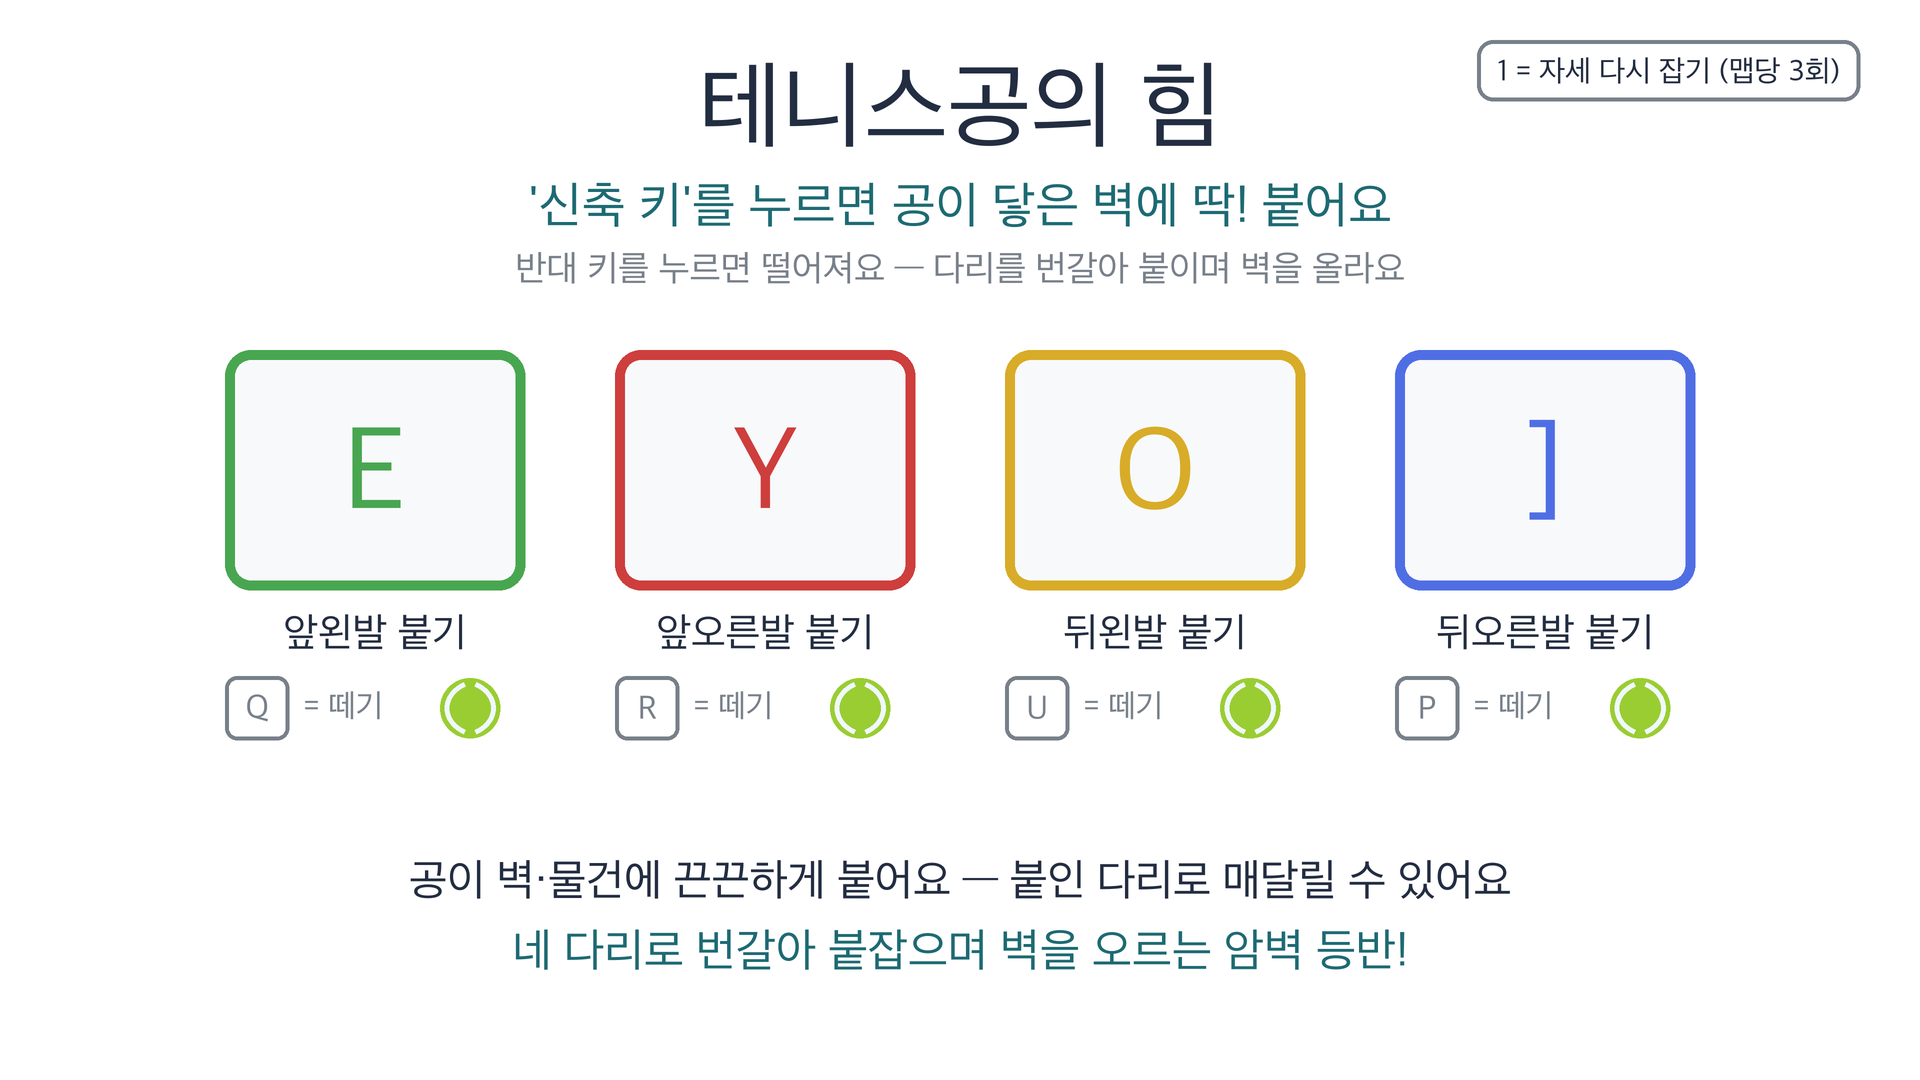
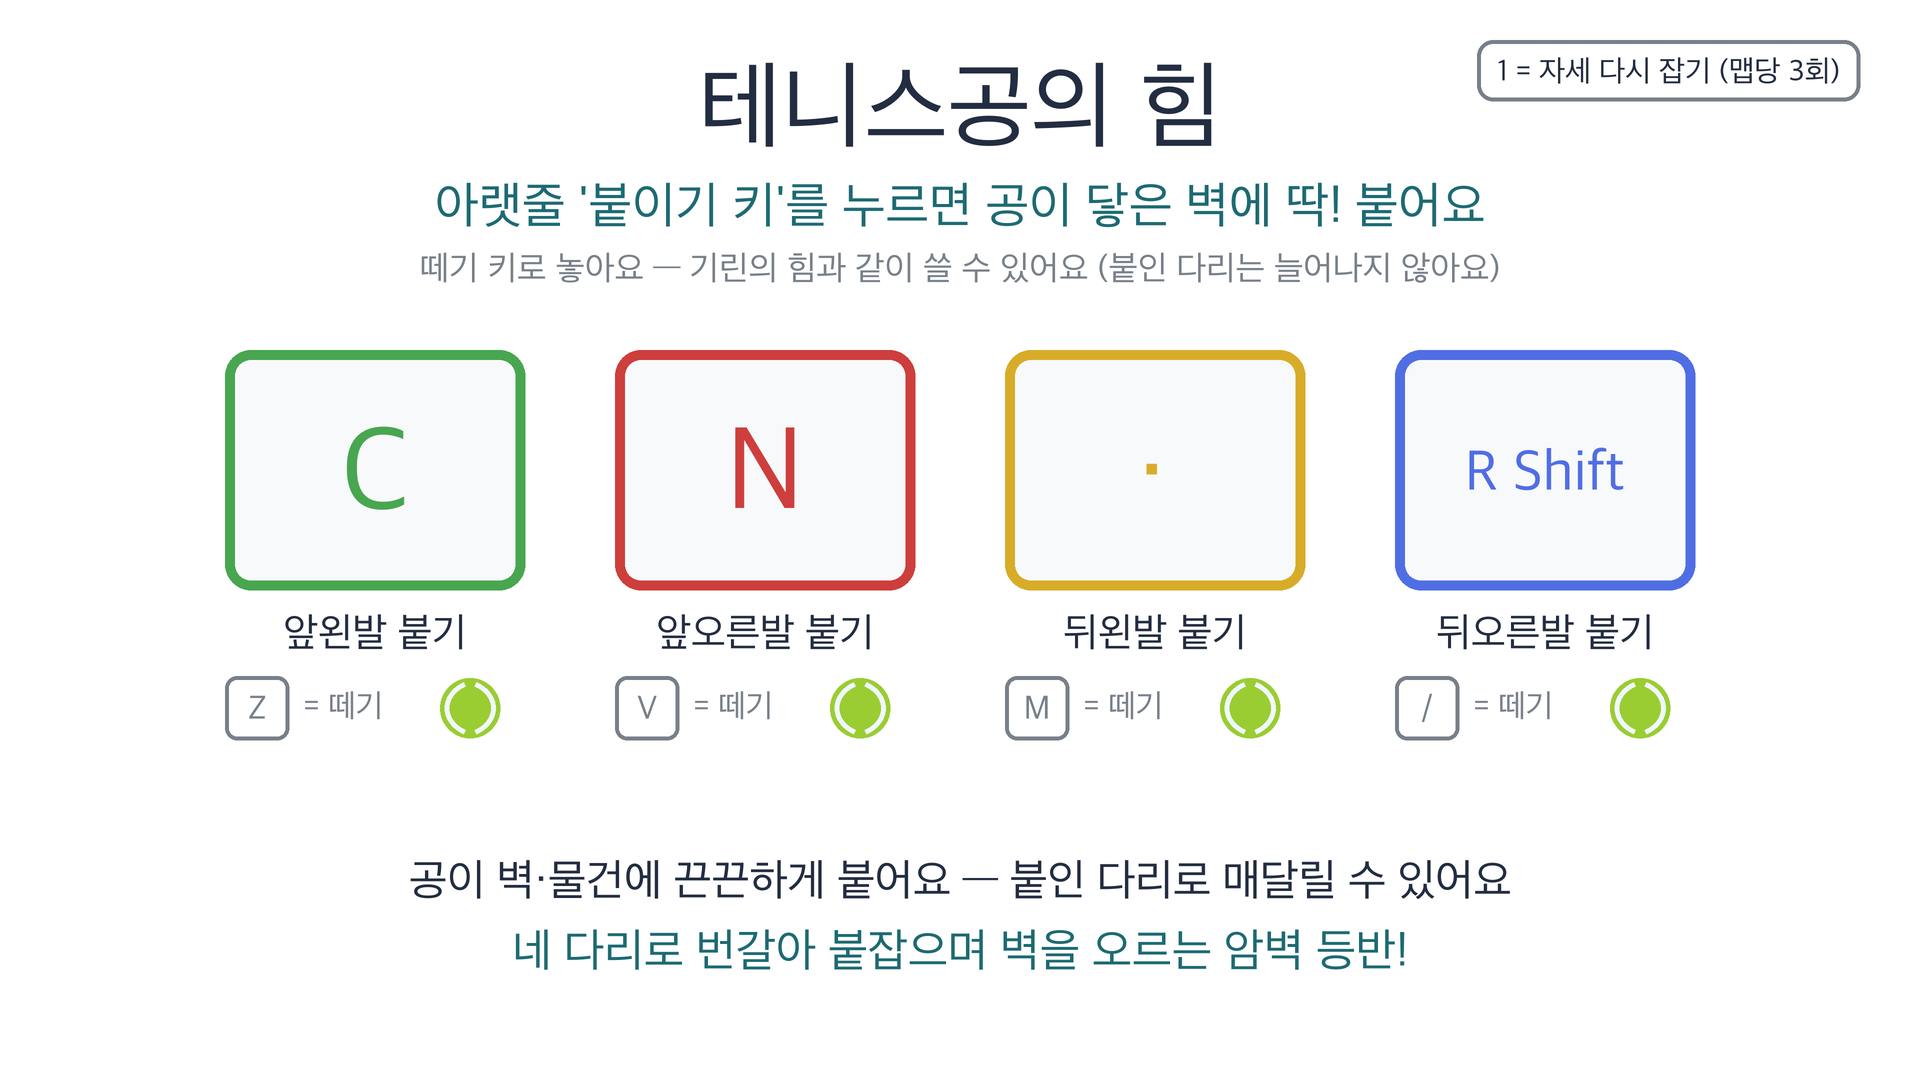
테니스 붙이기/떼기 키를 아랫줄 전용 키로 분리 — 기린 신축 키와 충돌 해소
- 붙이기: 앞왼=C / 앞오=N / 뒤왼=. / 뒤오=오른쪽Shift
- 떼기:   앞왼=Z / 앞오=V / 뒤왼=M / 뒤오=/
- 신축 키 공유가 사라져 기린 모드 중 '새로 붙기 금지' 게이트 제거
  (붙은 다리 신축 차단은 유지 — 바닥 뚫림 방지)
- 조작 설명 이미지(ControlsTennis) 새 키로 재생성

diff --git a/Assets/Scripts/TennisMode.cs b/Assets/Scripts/TennisMode.cs
@@ -2,13 +2,13 @@ using UnityEngine;
 
 /// <summary>
 /// ★ 테니스공 모드(2026-07-08) — 켜지면 네 다리 끝에 테니스공이 생긴다.
-/// 다리 신축 키(longer: FL=E/FR=Y/BL=O/BR=])를 누르면 공이 닿아 있는 벽/오브젝트에 '끈끈이'처럼 딱 붙고,
-/// 반대 키(shorter: FL=Q/FR=R/BL=U/BR=P)를 누르면 놓는다. 다리별 독립 — 번갈아 붙이며 벽을 오르는 조작.
+/// 붙이기 키(FL=C/FR=N/BL=./BR=오른쪽Shift)를 누르면 공이 닿아 있는 벽/오브젝트에 '끈끈이'처럼 딱 붙고,
+/// 떼기 키(FL=Z/FR=V/BL=M/BR=/)를 누르면 놓는다. (★2026-08-17 기린 신축 키와 분리 — 아랫줄 전용 키) 다리별 독립 — 번갈아 붙이며 벽을 오르는 조작.
 /// 붙기 구현: FixedJoint.connectedArticulationBody(2020.2+).
 ///  - 정적 벽: 발끝 위치에 키네마틱 Rigidbody 앵커 GO를 만들어 벽 transform에 붙이고(움직이는 발판도 추종) 조인트.
 ///  - 동적 오브젝트: 그 Rigidbody에 조인트를 직접 부착(물건을 다리로 붙잡아 끌 수 있음).
 /// 공은 시각 전용(콜라이더 없음 — 보행 물리 불변). 붙은 다리 공은 주황으로 바뀜.
-/// 테이블 기능 패턴: Table.prefab 루트, 평소 active=false. ⚠기린 모드와 키가 겹치므로 씬이 GiraffeMode.locked 처리(TennisStage).
+/// 테이블 기능 패턴: Table.prefab 루트, 평소 active=false. 전용 키라 기린 모드와 동시 사용 가능(붙은 다리는 GiraffeMode가 신축 차단).
 /// </summary>
 public class TennisMode : MonoBehaviour, ICheatUnlockable
 {
@@ -26,8 +26,15 @@ public class TennisMode : MonoBehaviour, ICheatUnlockable
     [Tooltip("붙은 상태 재질(주황).")]
     public Material grabMat;
 
+    // ★2026-08-17 전용 키(사용자 요청): 기린 신축 키와 안 겹치게 키보드 아랫줄 사용.
+    //   붙이기: WASD(앞왼)=C, TFGH(앞오)=N, IJKL(뒤왼)=., Arrows(뒤오)=오른쪽Shift
+    //   떼기:   WASD=Z, TFGH=V, IJKL=M, Arrows=/  — 각 키셋의 왼→오 배치와 일치
+    static readonly UnityEngine.InputSystem.Key[] GrabKeys =
+    { UnityEngine.InputSystem.Key.C, UnityEngine.InputSystem.Key.N, UnityEngine.InputSystem.Key.Period, UnityEngine.InputSystem.Key.RightShift };
+    static readonly UnityEngine.InputSystem.Key[] ReleaseKeys =
+    { UnityEngine.InputSystem.Key.Z, UnityEngine.InputSystem.Key.V, UnityEngine.InputSystem.Key.M, UnityEngine.InputSystem.Key.Slash };
+
     TableInput ti;
-    GiraffeMode gir;   // ★2026-08-17 기린 공존: 기린 모드 중엔 새로 붙기 금지(신축 키 공유 — 액자 맵)
     ArtLegController[] legs;
     ArticulationBody[] legAbs;
     Transform[] meshes;
@@ -52,7 +59,6 @@ public class TennisMode : MonoBehaviour, ICheatUnlockable
     void Start()
     {
         ti = TableInput.Of(this);
-        gir = transform.root.GetComponentInChildren<GiraffeMode>(true);
         legs = transform.root.GetComponentsInChildren<ArtLegController>(true);
         int n = legs.Length;
         legAbs = new ArticulationBody[n];
@@ -100,12 +106,14 @@ public class TennisMode : MonoBehaviour, ICheatUnlockable
             if (!balls[i].gameObject.activeSelf) balls[i].gameObject.SetActive(true);
             balls[i].SetPositionAndRotation(Tip(i), meshes[i].rotation);
 
-            var inp = ti != null ? ti.Get(legs[i].controlSet) : default;
-            // 기린 모드 중엔 신축 키가 다리 늘이기로 쓰이므로 새로 붙지 않음(떼기는 허용)
-            if (inp.longer && !prevLonger[i] && joints[i] == null && !(gir != null && gir.active)) TryGrab(i);
-            if (inp.shorter && !prevShorter[i]) Release(i);
-            prevLonger[i] = inp.longer;
-            prevShorter[i] = inp.shorter;
+            var kb = UnityEngine.InputSystem.Keyboard.current;
+            int ks = (int)legs[i].controlSet;
+            bool grabNow = kb != null && ks >= 0 && ks < 4 && kb[GrabKeys[ks]].isPressed;
+            bool relNow = kb != null && ks >= 0 && ks < 4 && kb[ReleaseKeys[ks]].isPressed;
+            if (grabNow && !prevLonger[i] && joints[i] == null) TryGrab(i);
+            if (relNow && !prevShorter[i]) Release(i);
+            prevLonger[i] = grabNow;
+            prevShorter[i] = relNow;
 
             // 조인트가 외부 요인으로 파괴됐으면(씬 오브젝트 삭제 등) 상태 정리
             if (joints[i] == null && anchors[i] != null) { Destroy(anchors[i]); anchors[i] = null; }
